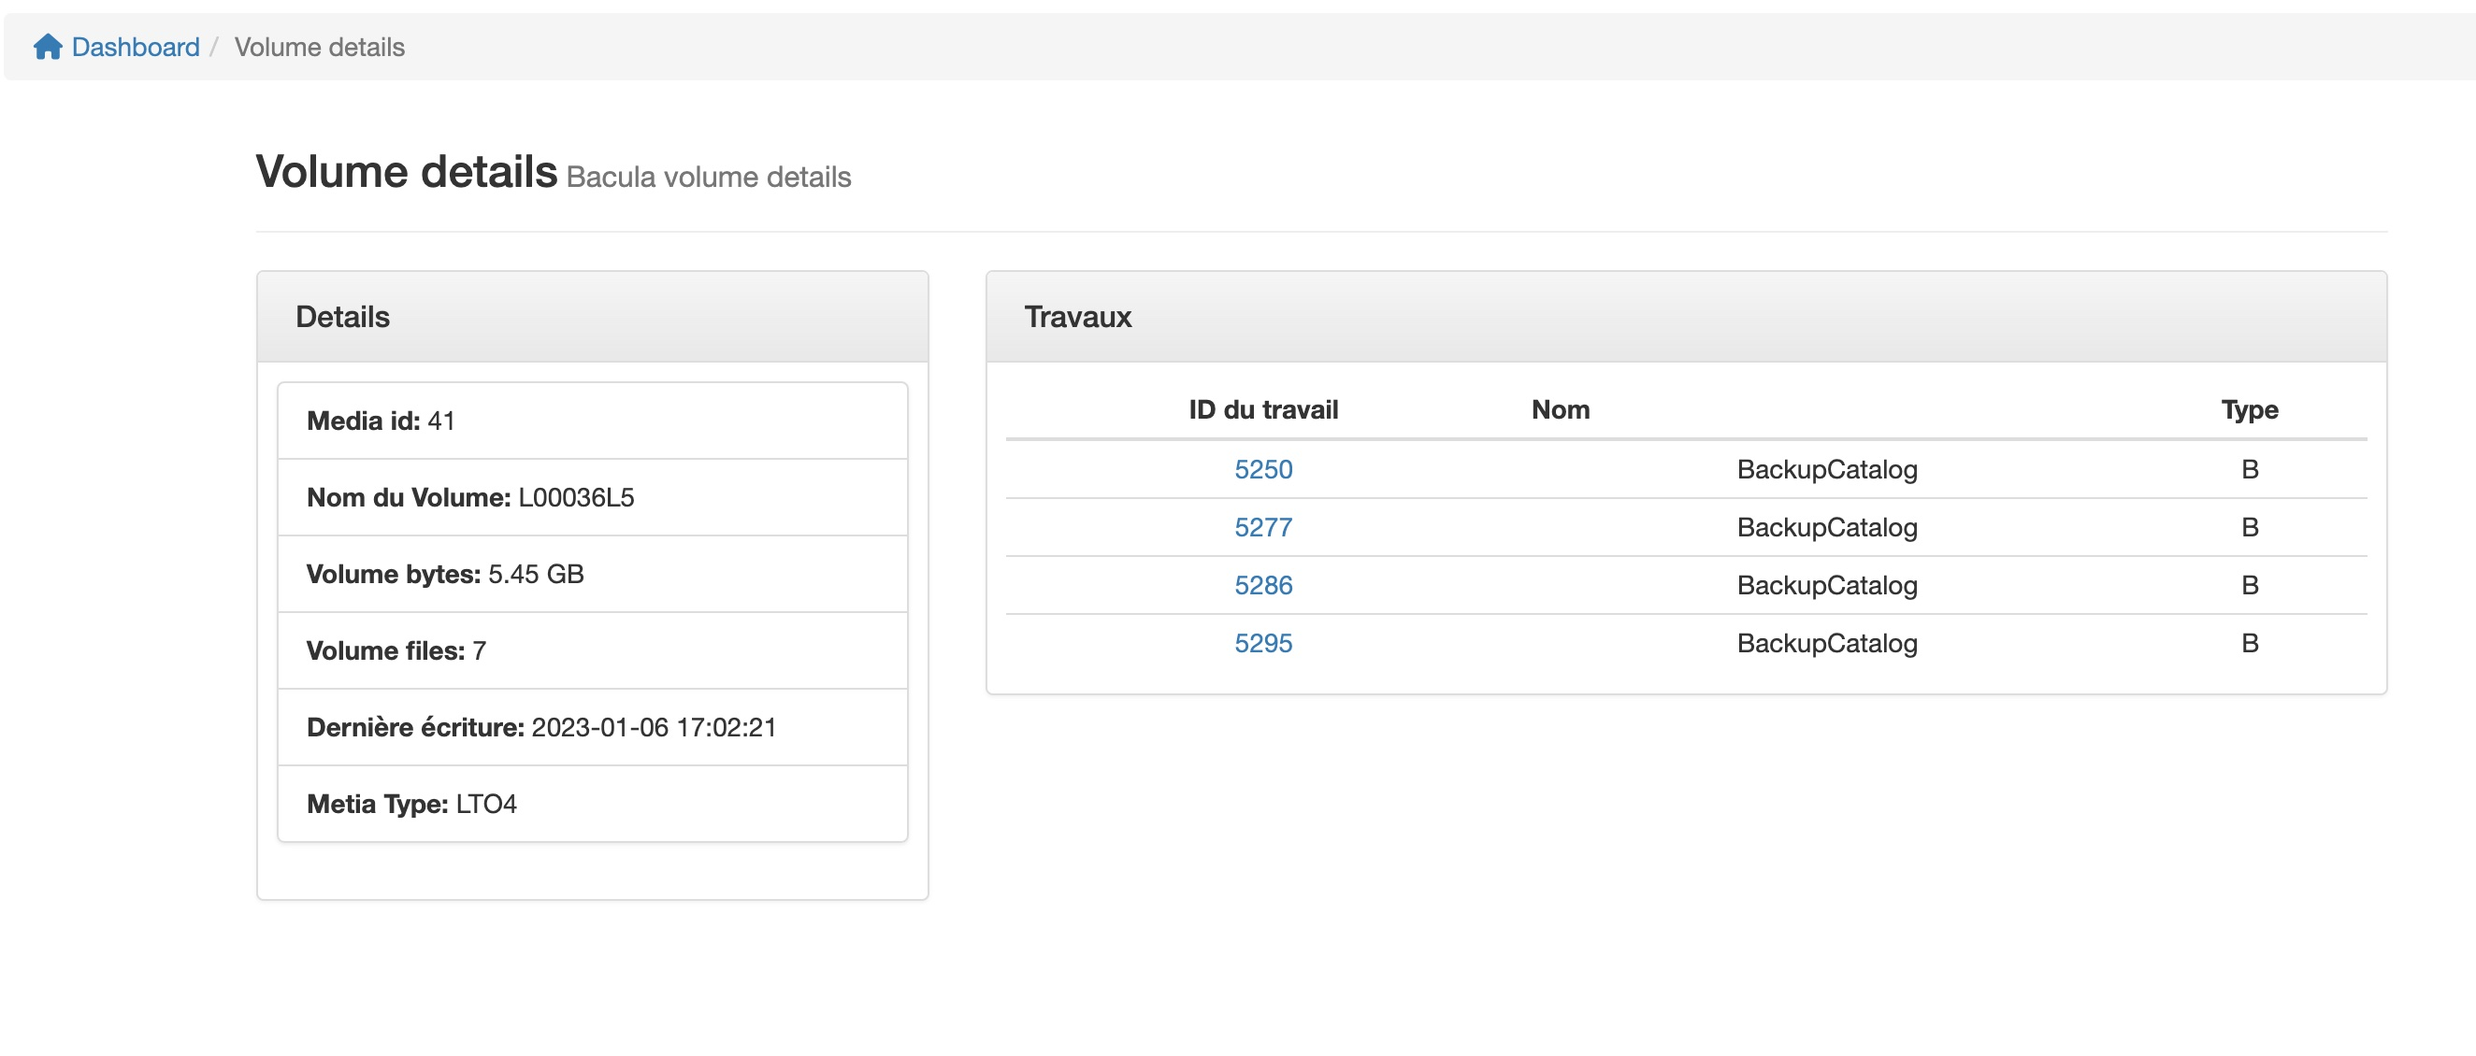
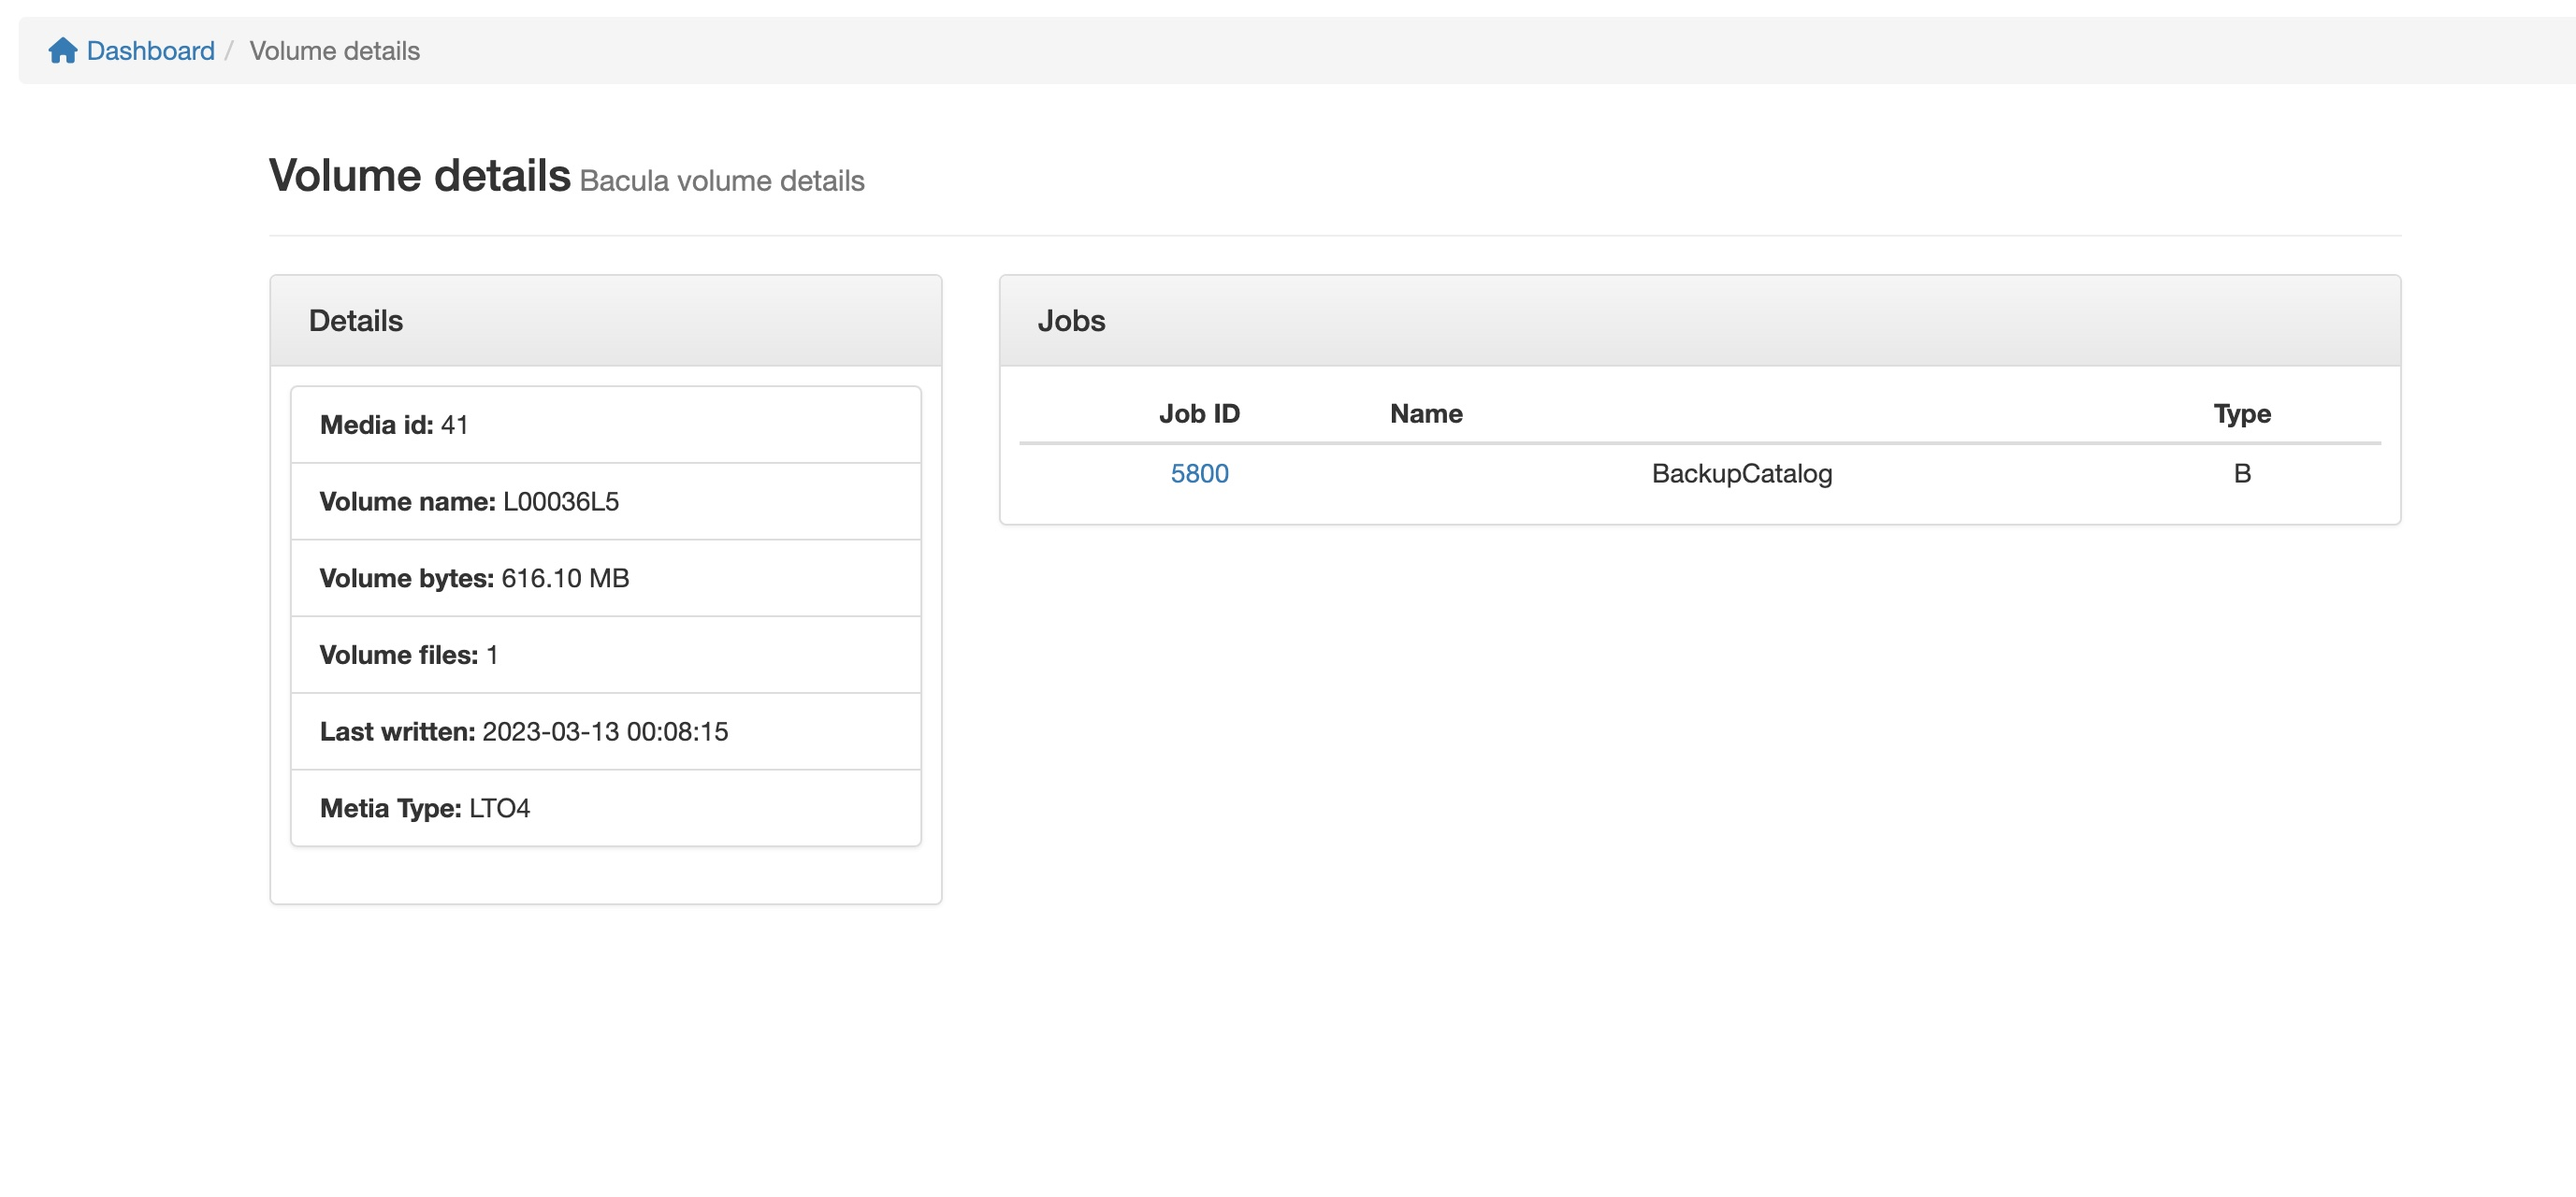
chore(docs): update documentation for volume details page
Add missing volume details report paragraph and screenshoft in features

diff --git a/docs/source/01_about/features.rst b/docs/source/01_about/features.rst
@@ -199,7 +199,7 @@ Volumes
 
 List all volumes with details like
 
-   * Volume name
+   * Volume name (by clicking on the link, it display the volume details report)
    * Bytes
    * Jobs
    * Media Type
@@ -214,6 +214,26 @@ List all volumes with details like
      If you use a physical tape auto-changer / library, you will know if the volume is inside or outside the library
 
 The total of bytes and number of volumes is displayed at the bottom of the page
+
+----
+
+Volume details
+==============
+
+.. image:: /_static/bacula-web-volume-details.jpg
+   :scale: 20%
+
+Display volume details such as
+
+   * Media Id
+   * Volume Name
+   * Volumes Bytes
+   * Volumes file(s)
+   * Last written date/time
+   * Media Type
+   * List of backup jobs stored on the volume
+
+.. note:: Available since v8.7.0
 
 ----
 
